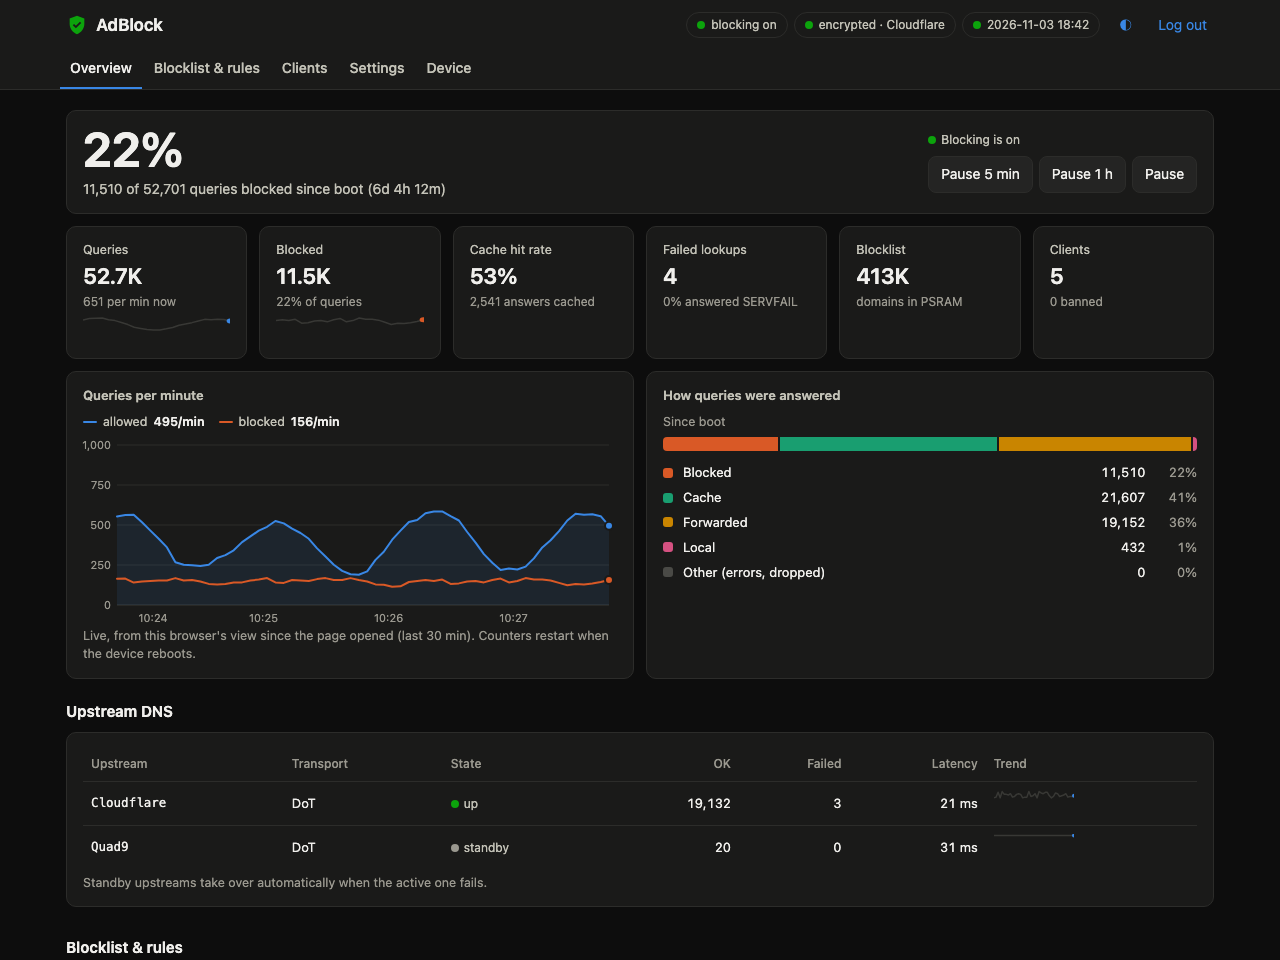
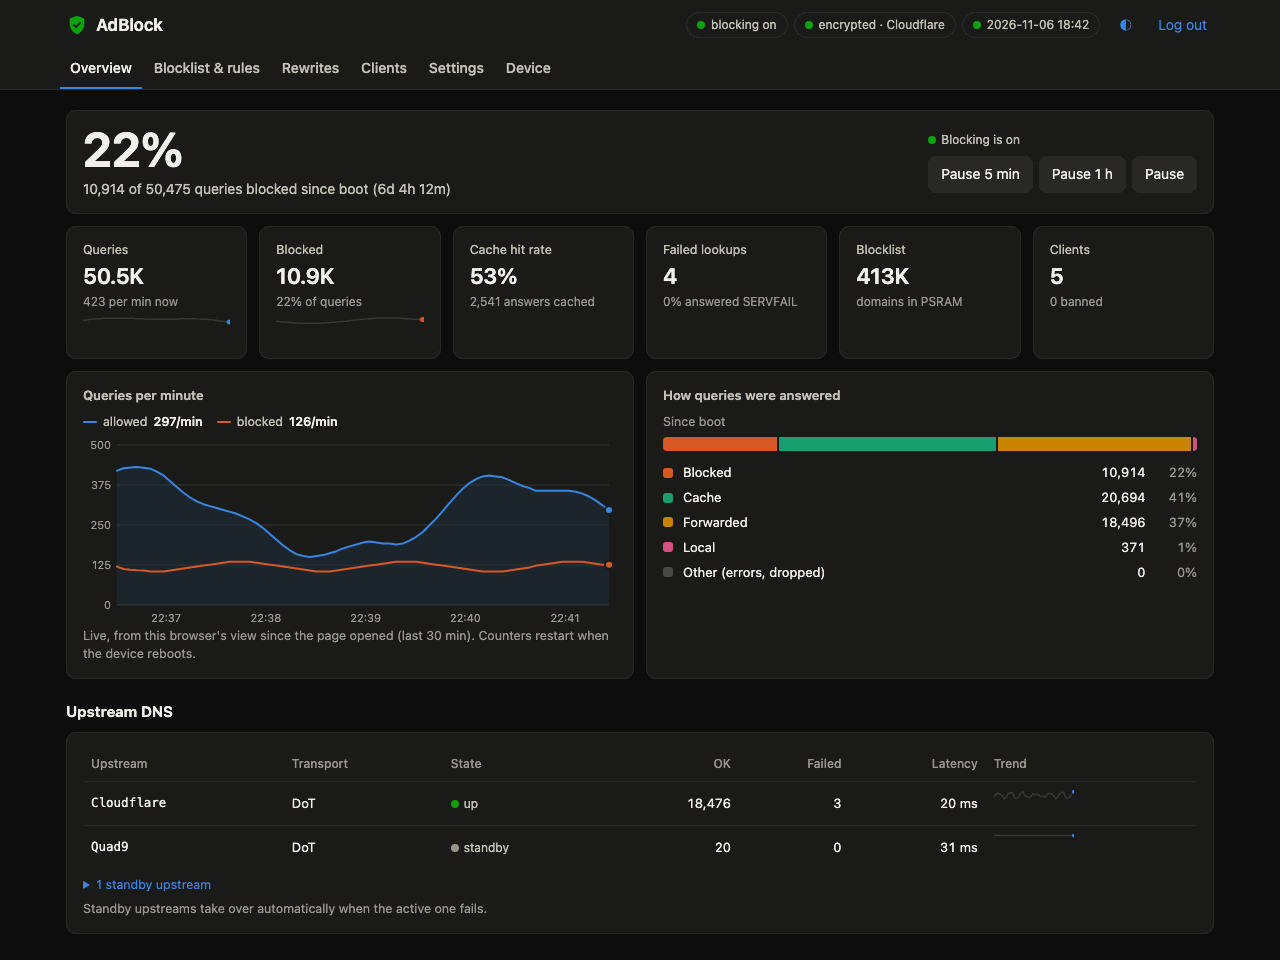
docs: document DNS rewrites, refresh screenshots and link preview
- README: highlight, comparison row, feature, how-it-works and a
  "DNS rewrites" section with examples and a screenshot.
- ARCHITECTURE §5.7: matching, pipeline order, replies, persistence,
  memory budget.
- Installer page: feature bullet, description and keywords.
- Screenshots and the link-preview card show the Rewrites tab; all images
  palette-compressed (dashboard 123 KB -> 37 KB each, card 44 KB -> 37 KB).
- web-ui skill: how to regenerate the images.

diff --git a/installer/index.html b/installer/index.html
@@ -6,7 +6,11 @@
     <meta name="color-scheme" content="light dark" />
     <meta
       name="description"
-      content="Open-source Pi-hole-style DNS ad blocker for the ESP32-S3: blocks ads and trackers for your whole network, encrypts other lookups with DNS-over-TLS and updates its blocklist daily. Flash it from your browser."
+      content="Open-source Pi-hole-style DNS ad blocker for the ESP32-S3: blocks ads and trackers for your whole network, encrypts other lookups with DNS-over-TLS, updates its blocklist daily and supports temporary DNS rewrites. Flash it from your browser."
+    />
+    <meta
+      name="keywords"
+      content="ESP32-S3, ad blocker, DNS sinkhole, Pi-hole alternative, DNS-over-TLS, DNS-over-HTTPS, network-wide ad blocking, tracker blocker, DNS rewrite, local DNS records, privacy, self-hosted, home network, PlatformIO"
     />
     <title>ESP32-S3 Ad Blocker: Pi-hole-style DNS blocker, browser installer</title>
     <!-- Link previews (Reddit, Slack, X…). Plain metadata: the browser loads none of it. -->
@@ -465,6 +469,10 @@
           <li>
             <b>Encrypts your DNS.</b> Allowed lookups go to Cloudflare or Quad9 over DNS-over-TLS, with
             DNS-over-HTTPS as a fallback, so your ISP can't read them.
+          </li>
+          <li>
+            <b>Your own DNS records, on a timer.</b> Point a name at a LAN device, a test server or another
+            domain for 15 minutes to 24 hours; the rewrite ends by itself.
           </li>
           <li>
             <b>Looks after itself.</b> The blocklist refreshes every night and firmware updates install from

diff --git a/docs/ARCHITECTURE.md b/docs/ARCHITECTURE.md
@@ -89,11 +89,15 @@ lib/core/                     portable C++17, unit-tested natively (pio test -e 
                                   truncation, blocked/NODATA/SERVFAIL synthesis
               name.{h,cpp}        wire-name parsing/compare, bounds-checked
               local_zones.{h,cpp} localhost, private reverse zones, canary domains
+              rewrite_reply.{h,cpp} replies for DNS rewrites (local A/AAAA, CNAME
+                                  chain + decompressed upstream records)
               query_policy.h      IQueryPolicy: forward / block / ban
   blocklist/  hash.h              FNV-1a 64 -> 48-bit domain hash
               format.{h,cpp}      v2 header, streaming + full-file validation, CRC
               index.{h,cpp}       MemoryIndex, FileIndex, IndexHolder (lock-free swap)
               matcher.{h,cpp}     custom allow/block sets + parent-domain matching
+  rules/      rewrites.{h,cpp}    timed DNS rewrites: input validation, exact/wildcard
+                                  matching, alias chains, loop checks, /rewrites.txt
   cache/      response_cache.{h,cpp}  fixed-pool LRU + TTL, slab payloads
   upstream/   transport.h         ITransport (strategy interface)
               framing.{h,cpp}     DoT 2-byte length framing, DoH HTTP/1.1 codec
@@ -120,6 +124,7 @@ src/                          ESP32 only (Arduino core 3.3.12 / ESP-IDF 5.5)
               tls_stream.* (mbedTLS + lwIP), transports.* (DoT, DoH, UDP)
   tasks/      dns_service.*       dns_io, dns_tcp and dns_up tasks
   app/        blocklist_manager.* list install/update, rules, status
+              rewrites.*          rules::RewriteTable in PSRAM + mutex + file (§5.7)
               clients.*           client table (stats, MACs) using clients::BanList
                                   and PauseTimer; bans apply even if the table is full
               app_policy.h        the DNS policy used by the tasks
@@ -175,8 +180,9 @@ flowchart LR
    on a loopback "wake" socket (self-pipe pattern), so it sleeps until there is
    work and never polls.
 2. Each datagram is validated (§5.1). Invalid → FORMERR/NOTIMP/drop.
-3. The **policy** decides: banned client, blocking paused, allowlist, custom
-   blocklist, main blocklist, local names.
+3. The **policy** decides: banned client, DNS rewrite (§5.7), blocking paused,
+   allowlist, custom blocklist, main blocklist. Local names (§5.5) are answered
+   just before it.
 4. Blocked/local replies are built in place and sent immediately.
 5. Allowed names are looked up in the **response cache**. Hits are served
    immediately with the client's id, decremented TTLs and fresh EDNS.
@@ -348,6 +354,66 @@ DO bit echoed, and the extended RCODE recomputed. Upstream queries carry our own
 | EDNS padding (RFC 7830 / RFC 8467)              | **on**  | Pads upstream DoT/DoH queries to a multiple of 128 bytes, so query length leaks less about the name. We do not pad replies to LAN clients (plain UDP; no value).                                                                                                                                                          |
 | DNSSEC AD-flag pass-through (RFC 6840 §5.7–5.8) | **on**  | Upstream queries set AD = 1. AD from an upstream reached over a verified DoT/DoH session is trusted and passed on, but only to clients that set AD or DO in their query. The dashboard shows the share of validated answers. AD is cleared on plain-UDP fallback (unauthenticated channel), and on blocked/local answers. |
 | Strict mode (no plain fallback)                 | off     | See §7.                                                                                                                                                                                                                                                                                                                   |
+
+### 5.7 DNS rewrites (temporary local records)
+
+The dashboard's _Rewrites_ tab answers a name with a fixed address or aliases it to
+another name, for 1 minute to 24 hours (the page offers 15 min … 24 h). Modelled on
+AdGuard Home's DNS rewrites and Pi-hole's local DNS / CNAME records, plus an expiry.
+Code: `lib/core/rules/rewrites.*` (table), `lib/core/dns/rewrite_reply.*` (replies),
+`src/app/rewrites.*` (lock + file), `DnsService::processRewrite()`.
+
+- **Matching:** `example.com` matches only that name; `*.example.com` matches every
+  name below it but not `example.com` itself. An exact entry hides every wildcard;
+  among wildcards the longest wins. Names are case-insensitive.
+- **Per name:** one IPv4 and/or one IPv6 entry, or one alias (CNAME), never both (RFC
+  1034 §3.6.2). Re-adding the same name and kind replaces the answer and the time.
+  At most 64 entries (`RewriteTable::kMax`).
+- **Order in the pipeline:** local zones (§5.5) → banned client → **rewrite** →
+  pause/blocklist. A rewrite therefore wins over the allow and block lists and works
+  while blocking is paused, but never helps a banned client. The device's own lookups
+  (127.0.0.1) are not rewritten, so a rewrite can't break NTP, the blocklist download
+  or the update check. Names answered locally anyway (localhost, private reverse
+  zones, `.local`, the canaries, with every optional zone counted as on) are refused
+  as rewrite names and as alias targets.
+- **Replies** (all: RA = 1, AA = 0, **AD = 0**, ID/RD/CD copied, question echoed, our
+  own OPT when the query had one, TC = 1 when it doesn't fit):
+
+  | Rewrite → query                    | Reply                                                                                                    |
+  | ---------------------------------- | -------------------------------------------------------------------------------------------------------- |
+  | IPv4 → A / IPv6 → AAAA             | the address                                                                                              |
+  | address → any other type           | NOERROR, no answer (NODATA) + synthetic SOA: a real AAAA or HTTPS record can't bypass the rewrite        |
+  | alias → CNAME query                | the CNAME chain only                                                                                     |
+  | alias → target has a rewrite       | the CNAME chain, then the target's address (or NODATA + SOA), all local                                  |
+  | alias → target without a rewrite   | the CNAME chain, then the answer and authority records of the target's own lookup (cache, else upstream) |
+  | loop, or a chain > 8 names / 512 B | SERVFAIL (add-time checks refuse these; this only guards entries that changed underneath)                |
+
+- **Alias resolution:** the client's query is re-issued for the last name in the chain
+  through the normal cache/upstream path, so the target's answer is cached under its
+  own name. The pending slot keeps the client's query and the chain; on the answer
+  (`onAnswer`) or a failure (`onFailure`) the reply is built for the client's
+  question, never the target's. The upstream records are copied with every name
+  decompressed (owner names and the RDATA of NS, CNAME, SOA, PTR, MX, SRV, DNAME and
+  the other RFC 3597 §4 types), because their compression pointers point into a
+  different message; other RDATA is copied byte for byte. Only NOERROR and NXDOMAIN
+  answers are wrapped (NXDOMAIN keeps the CNAME, RFC 6604); anything else becomes
+  SERVFAIL. The target is not checked against the blocklist: the user asked for it.
+- **TTL:** every record (synthetic or copied) is capped at
+  min(30 s, time left), so clients drop a rewrite within 30 s of its removal or
+  expiry; a copied TTL above 2³¹−1 counts as 0 (RFC 2181 §8).
+- **Time and persistence:** expiry is kept in monotonic milliseconds, so NTP steps
+  never shorten or extend a rewrite. `/rewrites.txt` stores one
+  `<domain> <answer> <unix expiry>` line per entry, written atomically (temp file,
+  delete, rename; boot recovers from a crash between the steps). Entries read at boot
+  stay inactive until the clock is synced, then get their remaining time back; those
+  already expired, or ending more than 24 h + 60 s in the future (a clock that was
+  wrong when they were saved), are dropped. Changes made before the clock is synced
+  are saved once it is (until then their absolute end time is unknown). The file is
+  written outside the table's mutex, so lookups never wait for flash; a failed write
+  is retried after a minute.
+- **Hot path:** `resolve()` is a linear scan of at most 64 entries (skipped without a
+  lock when the table is empty), allocation-free; the alias chain is built in a
+  per-task `RewriteAnswer` (not on the 6 KB task stacks).
 
 ---
 
@@ -768,13 +834,14 @@ blocks in one piece each, so watch the largest free block (`heapBlock` in
 
 ### PSRAM (8 MB)
 
-| Item                                                          | Default                                                                                                                                                                                             |
-| ------------------------------------------------------------- | --------------------------------------------------------------------------------------------------------------------------------------------------------------------------------------------------- |
-| Blocklist index (one buffer; up to 2 during swap if free)     | 1.9 MB at 400k names; cap 1M names (4.3 MB)                                                                                                                                                         |
-| Response cache: entry pool (16k × 48 B) + payload arena       | 0.8 MB + 2 MB                                                                                                                                                                                       |
-| Pending-query pool (32 slots × ~4.6 KB: query + reply buffer) | 0.15 MB                                                                                                                                                                                             |
-| Stats, client table (256 clients), custom sets                | < 0.2 MB                                                                                                                                                                                            |
-| **Free**                                                      | about 0.8 MB at a 1M-name list (4.06 MiB list + 2.75 MiB cache + pools), before Wi-Fi/lwIP buffers offloaded to PSRAM. Two 1M lists never fit: the update swaps through the file-backed bridge (§6) |
+| Item                                                                        | Default                                                                                                                                                                                             |
+| --------------------------------------------------------------------------- | --------------------------------------------------------------------------------------------------------------------------------------------------------------------------------------------------- |
+| Blocklist index (one buffer; up to 2 during swap if free)                   | 1.9 MB at 400k names; cap 1M names (4.3 MB)                                                                                                                                                         |
+| Response cache: entry pool (16k × 48 B) + payload arena                     | 0.8 MB + 2 MB                                                                                                                                                                                       |
+| Pending-query pool (32 slots × ~5.7 KB: query, rewrite chain, reply buffer) | 0.18 MB                                                                                                                                                                                             |
+| DNS rewrite table (64 entries × ~550 B)                                     | 35 KB                                                                                                                                                                                               |
+| Stats, client table (256 clients), custom sets                              | < 0.2 MB                                                                                                                                                                                            |
+| **Free**                                                                    | about 0.8 MB at a 1M-name list (4.06 MiB list + 2.75 MiB cache + pools), before Wi-Fi/lwIP buffers offloaded to PSRAM. Two 1M lists never fit: the update swaps through the file-backed bridge (§6) |
 
 ### Sockets (lwIP: `CONFIG_LWIP_MAX_SOCKETS = 16`, fixed in the prebuilt libs)
 
@@ -797,7 +864,7 @@ nvs,       data, nvs,      0x9000,    0x5000     20 KB   settings, Wi-Fi, ETag
 otadata,   data, ota,      0xe000,    0x2000      8 KB
 app0,      app,  ota_0,    0x10000,   0x400000    4 MB   firmware slot A
 app1,      app,  ota_1,    0x410000,  0x400000    4 MB   firmware slot B
-spiffs,    data, spiffs,   0x810000,  0x7E0000  ~7.9 MB  LittleFS: blocklists, custom rules
+spiffs,    data, spiffs,   0x810000,  0x7E0000  ~7.9 MB  LittleFS: blocklists, custom rules, rewrites
 coredump,  data, coredump, 0xFF0000,  0x10000    64 KB   crash dumps
 ```
 

diff --git a/README.md b/README.md
@@ -40,6 +40,7 @@ blocklist every day on its own**. No Raspberry Pi, no SD card, no OS to patch.
 | **Maintenance-free**                   | The blocklist updates itself daily; firmware updates are one button on the dashboard, with rollback.          |
 | **Fast**                               | Blocklist and answer cache live in RAM: repeat lookups are answered in milliseconds.                          |
 | **Dashboard**                          | `http://s3adblock.local`: live stats, clients, your own block/allow rules, pause blocking, settings.          |
+| **Temporary DNS rewrites**             | Point a name at your own IP or another domain for 15 min to 24 h (`nas.home → 192.168.1.20`); ends by itself. |
 | **Secure by default**                  | Password set with a one-time code from the serial console, login lockout, CSRF and DNS-rebinding guards.      |
 | **Tiny and low-power**                 | Runs from any stable 5 V USB supply; no computer to keep running.                                             |
 
@@ -76,6 +77,7 @@ blocklist every day on its own**. No Raspberry Pi, no SD card, no OS to patch.
 | Failed list update    | old list stays active                              | old list stays active       | can leave no list loaded                                                   |
 | Dashboard login       | login screen, hashed password, setup code, lockout | password                    | Basic Auth                                                                 |
 | Answer cache          | yes (PSRAM)                                        | yes                         | no                                                                         |
+| Local DNS records     | timed rewrites: IPv4, IPv6, CNAME, `*.` wildcards  | permanent A/AAAA and CNAME  | no                                                                         |
 | Slow upstream answer  | other queries keep flowing; SERVFAIL at 2.5 s      | other queries keep flowing  | stalls every client                                                        |
 | DHCP server, IPv6 DNS | not yet                                            | yes                         | no                                                                         |
 
@@ -164,6 +166,11 @@ and the _Overview_ should show a rising share of queries blocked.
 
 - **Network-wide blocking**: up to 1 million domains held in PSRAM (lookups are served
   from RAM); a listed domain also blocks its subdomains; your own block and allow rules.
+- **Temporary DNS rewrites**: answer a name (or every subdomain with `*.example.com`)
+  with an IPv4/IPv6 address or alias it to another domain (CNAME) for 15 minutes to
+  24 hours. Handy for testing a server before its DNS changes, reaching a LAN device by
+  name, or pointing a site somewhere else for a while. They survive a reboot and end on
+  their own.
 - **Encrypted upstream DNS**: DNS-over-TLS to Cloudflare (1.1.1.1) and Quad9
   (9.9.9.9) by fixed IP, certificates verified, TLS sessions resumed; DNS-over-HTTPS
   fallback; plain DNS only as a last resort (and you can switch that off).
@@ -175,8 +182,8 @@ and the _Overview_ should show a rising share of queries blocked.
 - **Privacy extras**: query padding, DNSSEC "validated" flag pass-through, local
   answers for private names, and Firefox's DoH canary so Firefox keeps using it.
 - **Dashboard** at `http://s3adblock.local`: live stats, upstream health, clients,
-  block/allow rules, pause blocking, settings, firmware and blocklist uploads, and a
-  one-click update check.
+  block/allow rules, DNS rewrites, pause blocking, settings, firmware and blocklist
+  uploads, and a one-click update check.
 - **Secure by default**: hashed dashboard password set with a one-time code from the
   serial console, login lockout, CSRF and DNS-rebinding checks, HTTPS-only list
   downloads, LAN-only DNS answers.
@@ -212,6 +219,7 @@ randomly, try another cable or charger. Keep the PCB antenna away from metal.
 flowchart LR
     C([Client query]) --> IO[dns_io task]
     IO -->|local name| L[Answer on the device]
+    IO -->|rewritten| RW["Your IP, or a CNAME<br/>to another domain"]
     IO -->|blocked| B["0.0.0.0 / :: / NODATA"]
     IO -->|cached| K[Answer from PSRAM cache]
     IO -->|otherwise| U[upstream task]
@@ -226,6 +234,13 @@ For `a.b.ads.example.com` the device checks the name and each parent down to
 everything, then your custom blocklist, then the main list. Blocked `A` queries get
 `0.0.0.0`, `AAAA` gets `::`, and anything else (including the `HTTPS` records modern
 browsers ask for) gets an empty answer, never NXDOMAIN.
+
+**Rewrites.** A rewrite answers a name with your own address before the blocklist is
+consulted (it also works while blocking is paused; banned devices stay blocked). An IP
+rewrite answers `A` or `AAAA` and leaves the other types empty, so a real IPv6 or
+`HTTPS` answer can't slip past it. A domain rewrite answers with a CNAME and resolves
+that domain for the client, following other rewrites on the way. Answers carry a TTL
+of at most 30 seconds, so devices let go of a rewrite soon after it ends.
 
 **Encrypted DNS.** Allowed queries go to Cloudflare or Quad9 over DNS-over-TLS (port
 853), connecting by IP and verifying the provider's certificate name, so no plaintext
@@ -269,9 +284,39 @@ what the page has seen since it opened (light and dark themes):
 | Blocklist URL and daily update time                                               | this repo's daily list, 02:00                              |
 | Time zone                                                                         | `UTC0` (POSIX TZ string; `<+03>-3` = UTC+3, sign inverted) |
 | Custom block / allow rules, banned clients, pause                                 |                                                            |
+| DNS rewrites (up to 64, each 15 min to 24 h)                                      | none                                                       |
 
 `src/secrets.h` only holds first-boot defaults (Wi-Fi, initial dashboard password, the
 network OTA password). It is gitignored.
+
+### DNS rewrites
+
+_Rewrites_ answers a name with an address or another domain for a set time. Type the
+domain, the answer (an IPv4 address, an IPv6 address or a domain name) and pick a
+duration from 15 minutes to 24 hours:
+
+<picture>
+  <source media="(prefers-color-scheme: dark)" srcset="docs/img/rewrites-dark.png" />
+  <img src="docs/img/rewrites-light.png" alt="The Rewrites tab: a form with domain, answer and duration, and a list of active rewrites with the time left" width="100%" />
+</picture>
+
+| You enter                                    | Clients get                                                              |
+| -------------------------------------------- | ------------------------------------------------------------------------ |
+| `nas.home` → `192.168.1.20`                  | `A 192.168.1.20`; AAAA and other types get an empty answer               |
+| `nas.home` → `fd00::20` (as well)            | `AAAA fd00::20` too: a name can have one IPv4 and one IPv6 answer        |
+| `*.staging.example.com` → `test-server.home` | every subdomain (not the name itself) gets a CNAME to `test-server.home` |
+| `yt.home` → `restrict.youtube.com`           | a CNAME plus the target's real addresses, looked up over encrypted DNS   |
+
+- An exact name beats a wildcard; the longest wildcard wins. A name gets addresses or
+  an alias, not both, and an alias chain (followed through your other rewrites) may be
+  at most 8 names long; loops are refused when you add them.
+- Adding the same name and kind again replaces its answer and restarts its time.
+- Names the device answers itself (`localhost`, `.local`, private reverse lookups, the
+  Firefox/iCloud canaries) can't be rewritten.
+- Rewrites are kept in flash with their end time. After a reboot they come back once
+  the clock is synced (NTP), minus the time the board was off.
+- Scripts: `curl -u admin:<password> -H 'X-Requested-With: adblock' -d d=nas.home -d t=192.168.1.20 -d m=60 http://s3adblock.local/api/rewrites/add`
+  (`m` = minutes, 1 to 1440; `/api/rewrites/remove` takes `d` and `t`).
 
 ### Your own blocklist
 

diff --git a/.claude/skills/web-ui/SKILL.md b/.claude/skills/web-ui/SKILL.md
@@ -125,5 +125,13 @@ The page starts on its login screen: answer `401` to `/api/*` until `POST /api/l
 succeeds, and set a cookie there that the mock then checks (or answer 200 from the start
 to skip the login).
 
+**README / link-preview images** (`docs/img/*.png`, `installer/social-preview.png`):
+serve the page from such a mock with realistic numbers, seed the chart history in
+`sessionStorage` (`ab.hist`) before the page script runs, and capture with headless
+Chrome (`--headless=new --window-size=1280,960 --virtual-time-budget=4000
+--screenshot=...`). Headless capture ignores scrolling: for one section, hide the
+others with injected CSS. Then compress to a 256-colour palette with Pillow's
+`FASTOCTREE` quantizer (keeps the chart colours exact; `MEDIANCUT` shifts them).
+
 Set `updateUrl` in the mock to a local `update.json` with a higher version to see
 the update states. Check desktop and ~390 px wide, light and dark, before committing.
